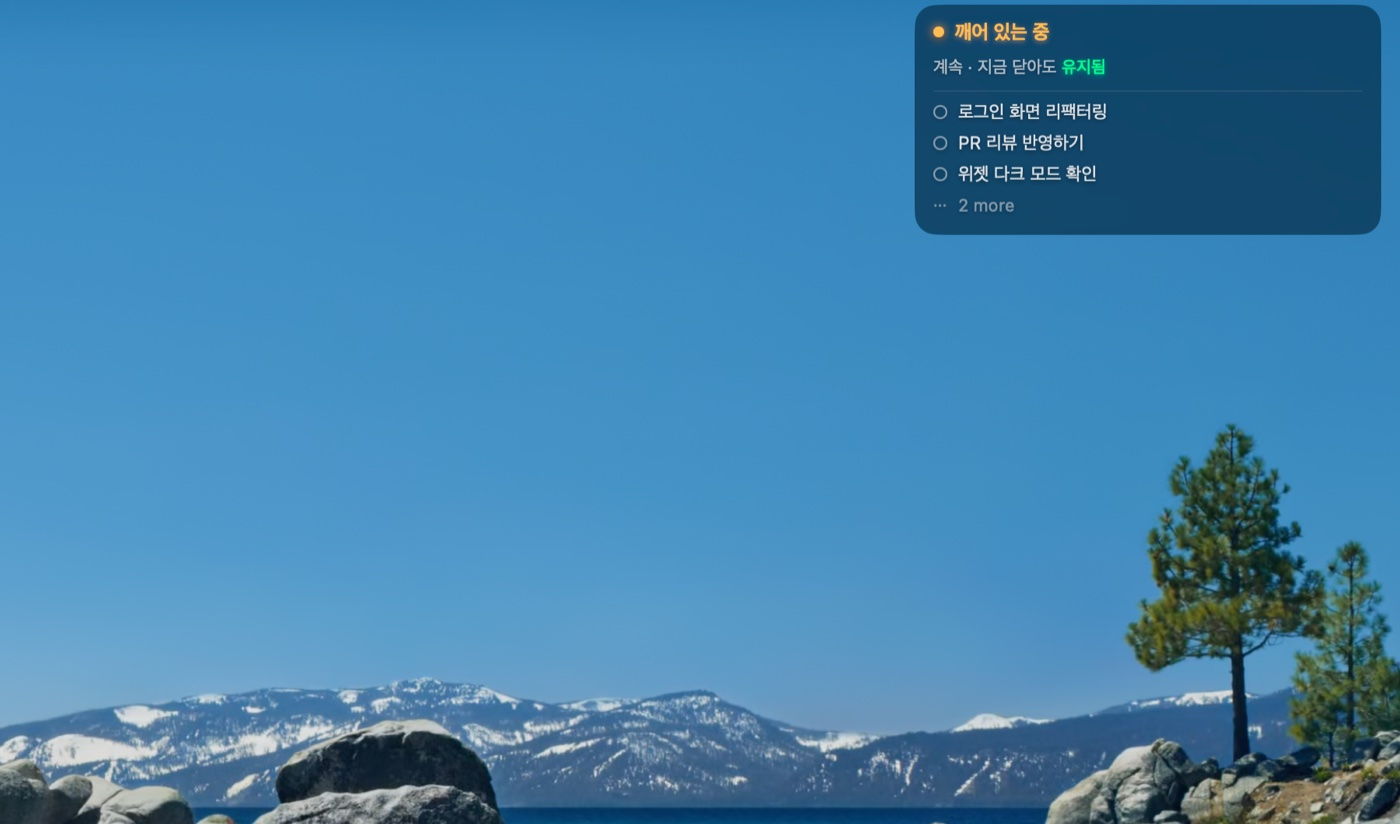
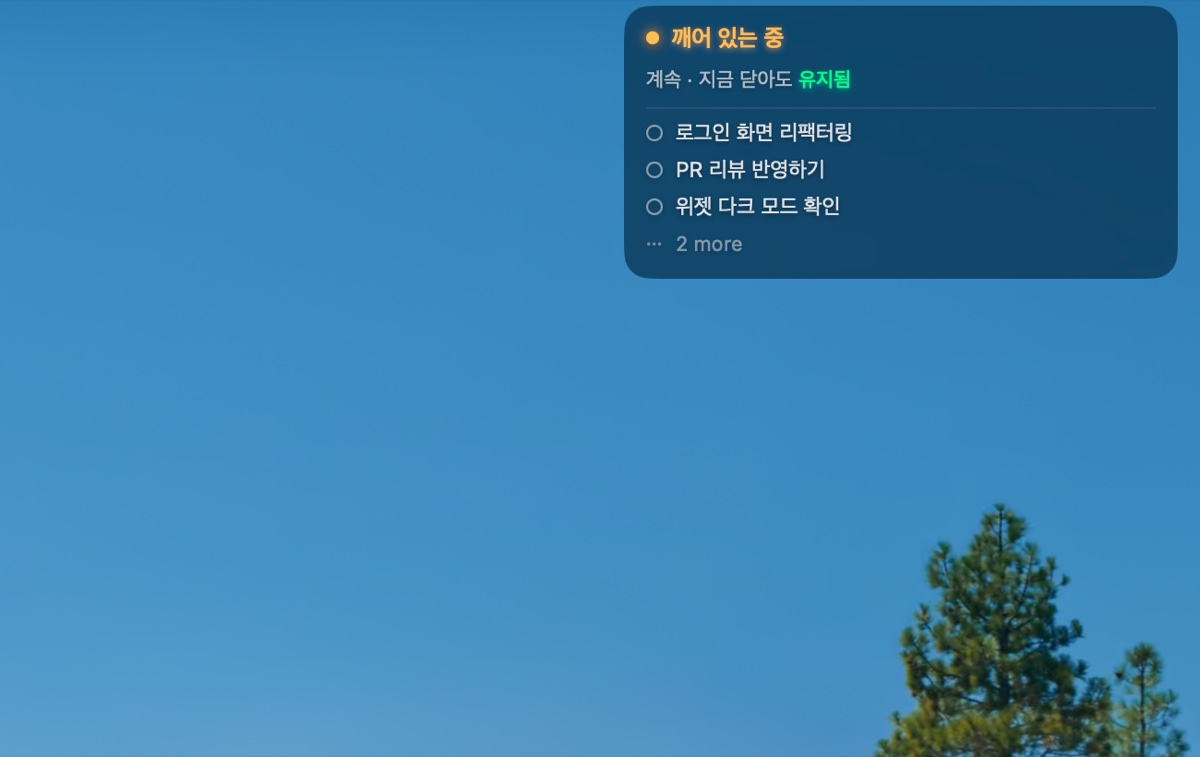
docs: README 대표 사진을 창 주변만 남게 줄임

diff --git a/README.md b/README.md
@@ -10,7 +10,7 @@
 </p>
 
 <p align="center">
-  <img src="docs/screenshots/hero.jpg" width="720" alt="바탕화면 오른쪽 위에 떠 있는 랜턴 창">
+  <img src="docs/screenshots/hero.jpg" width="560" alt="바탕화면 오른쪽 위에 떠 있는 랜턴 창">
 </p>
 
 ---
